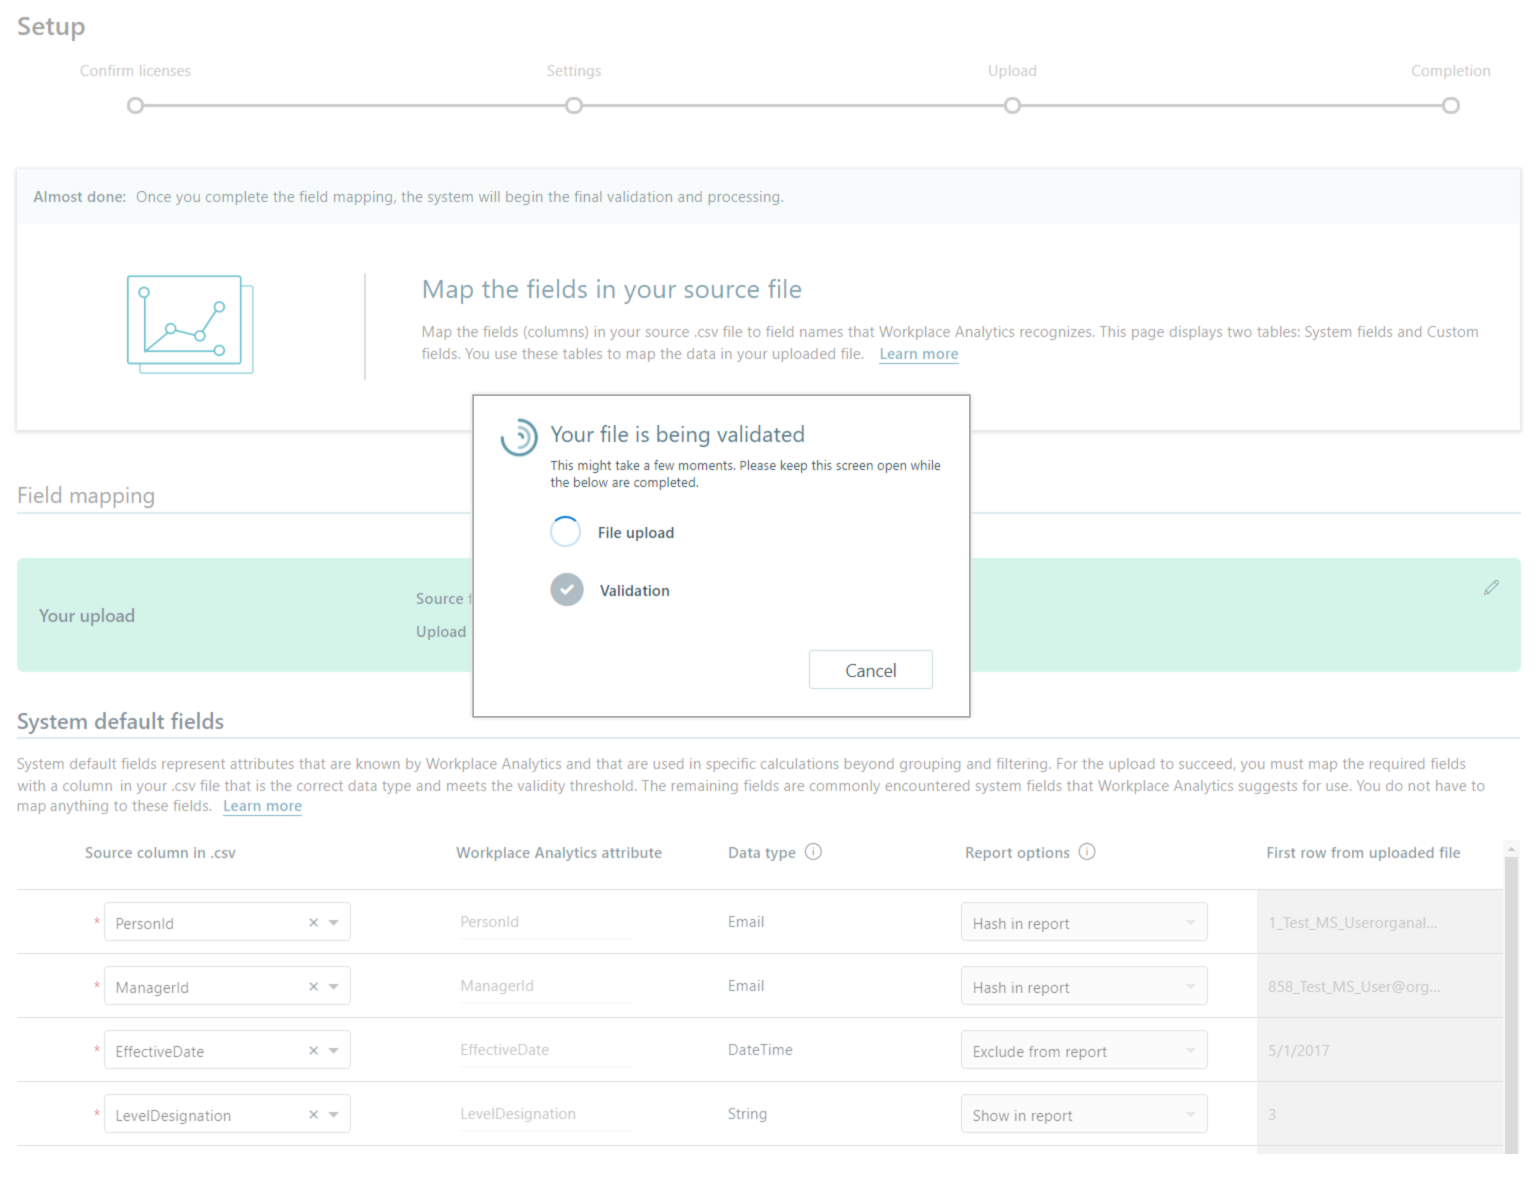
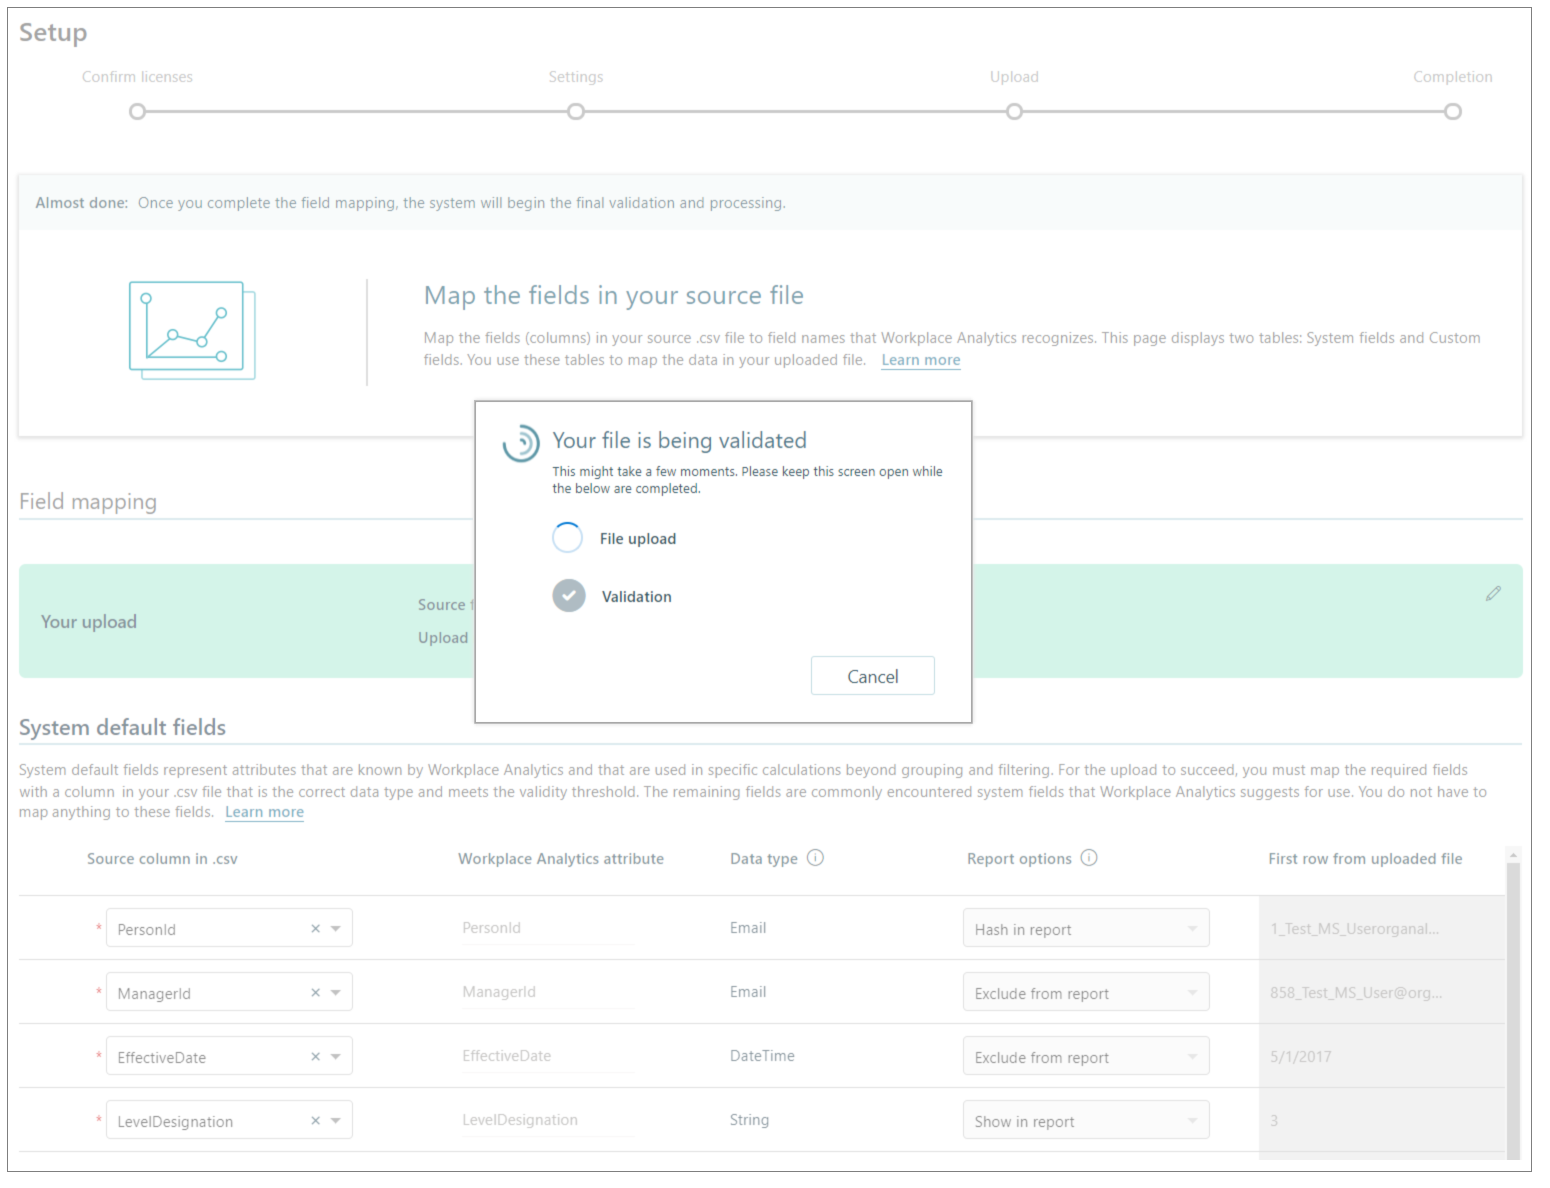
images with hash in report for mgrID

diff --git a/WorkplaceAnalytics/Setup/upload-organizational-data-1st.md b/WorkplaceAnalytics/Setup/upload-organizational-data-1st.md
@@ -61,7 +61,7 @@ After the initial processing (of collaboration data) is complete, the next time 
 
 You need to map the fields (columns) for the source .csv file to the field names that Workplace Analytics recognizes. You map these fields during the Upload step, as indicated in the progress bar on the **Setup** page:
 
-   ![Map data fields](../images/wpa/setup/onboarding-mapping.png)
+   ![Map data fields](../images/wpa/setup/onboarding-mapping-2.png)
 
 This page includes tables for System default fields and Custom fields for mapping the data for the upload file. These field types are described in the following sections. 
 
